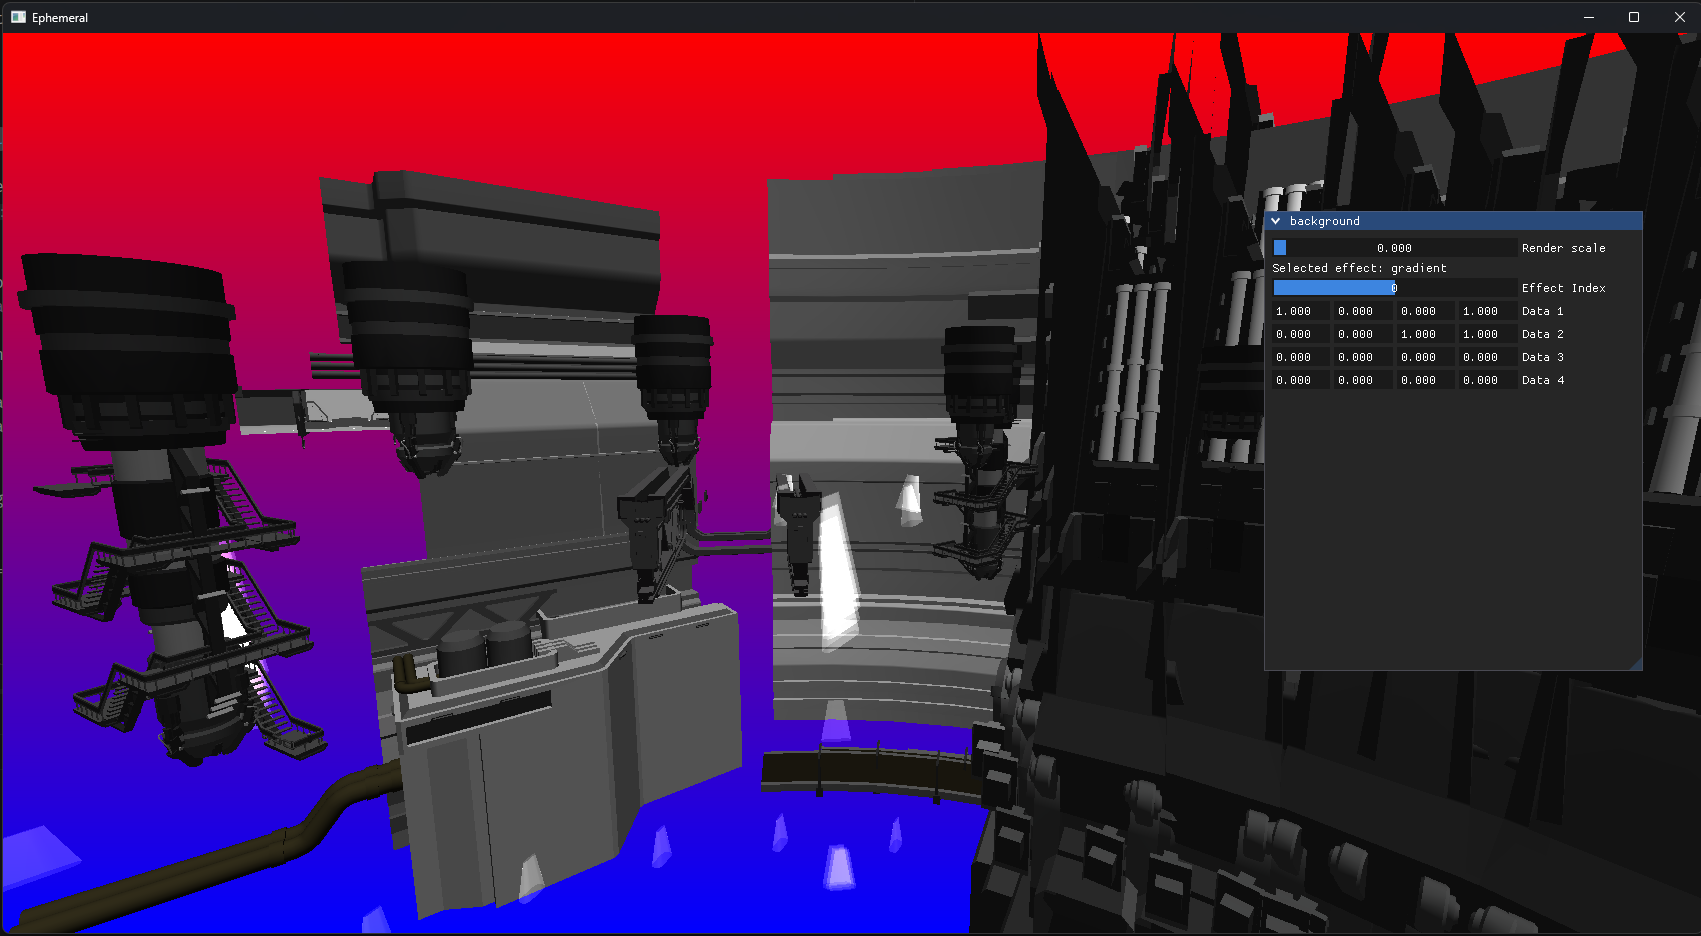
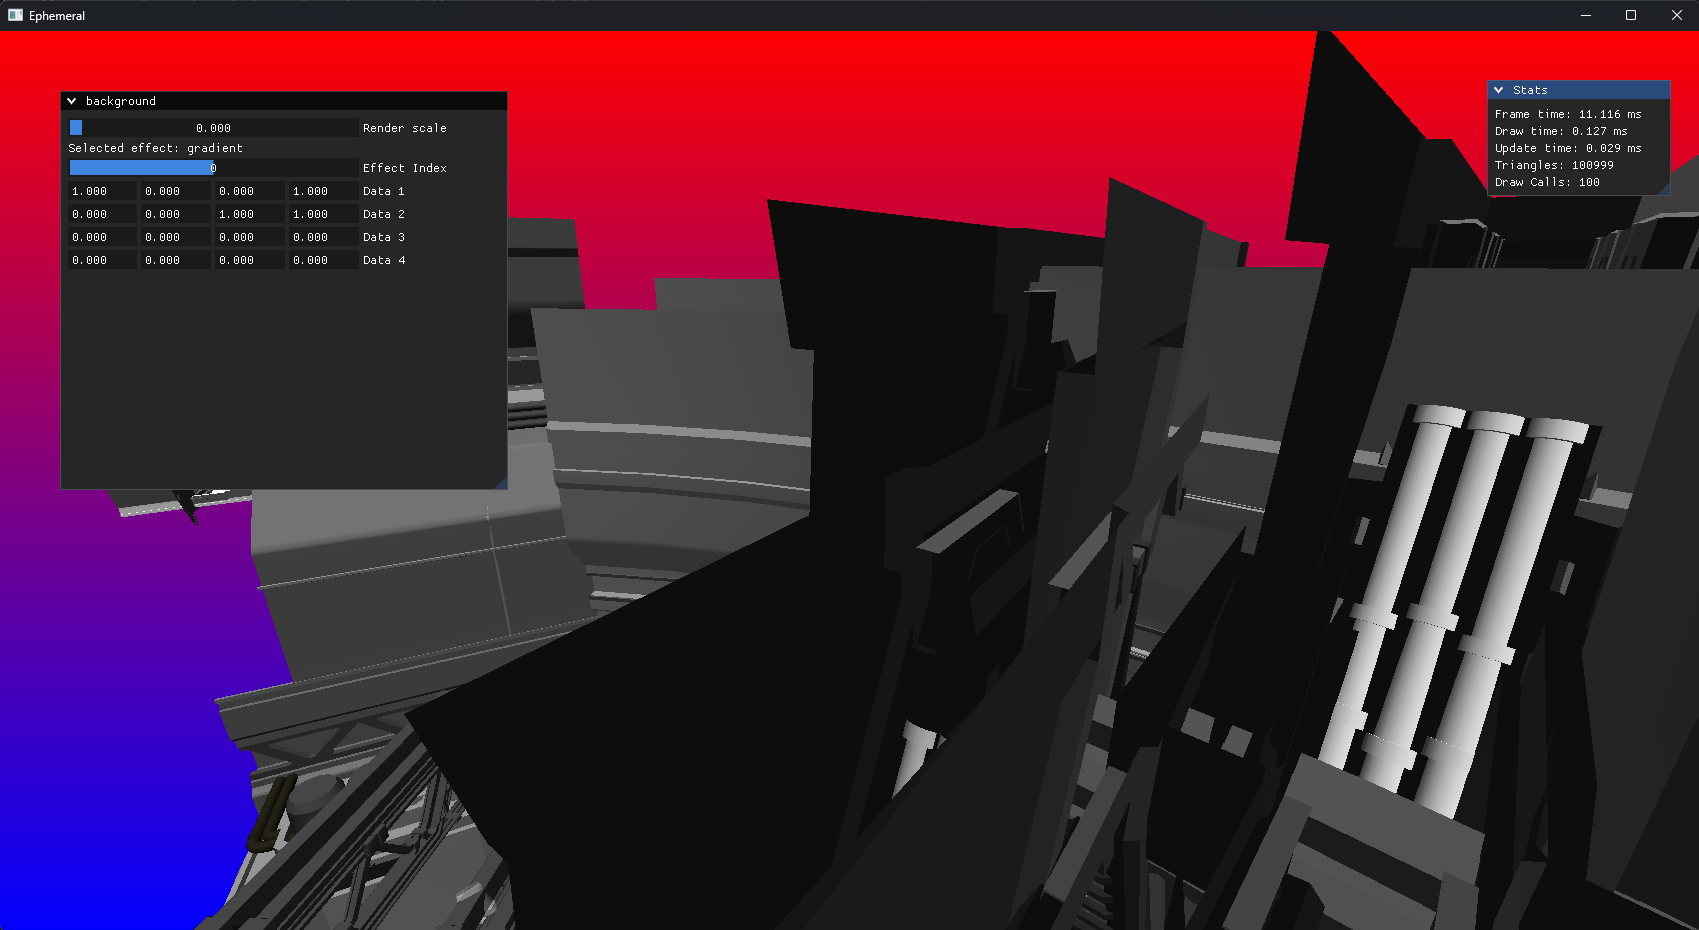
add new screenshot

diff --git a/README.md b/README.md
@@ -6,7 +6,7 @@ API-decoupled Vulkan-based rendering engine.
 
 ## Screenshots
 
-![Vulkan Engine](docs/assets/Screenshot.png)
+![Vulkan Engine](docs/assets/Screenshot.old.png)
 
 # Prerequisites
 
